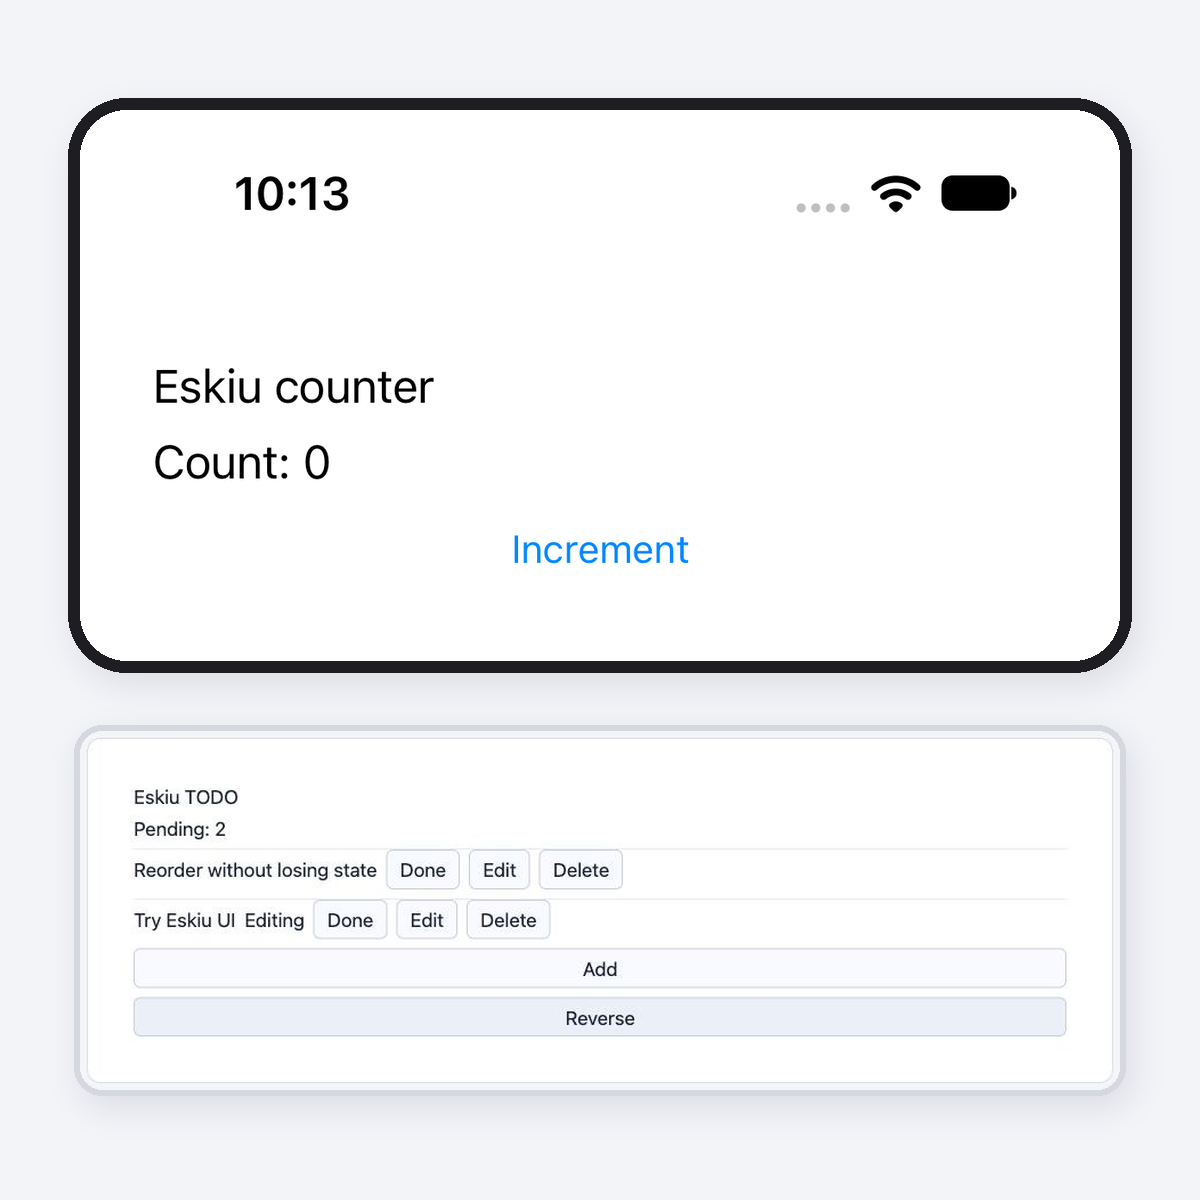
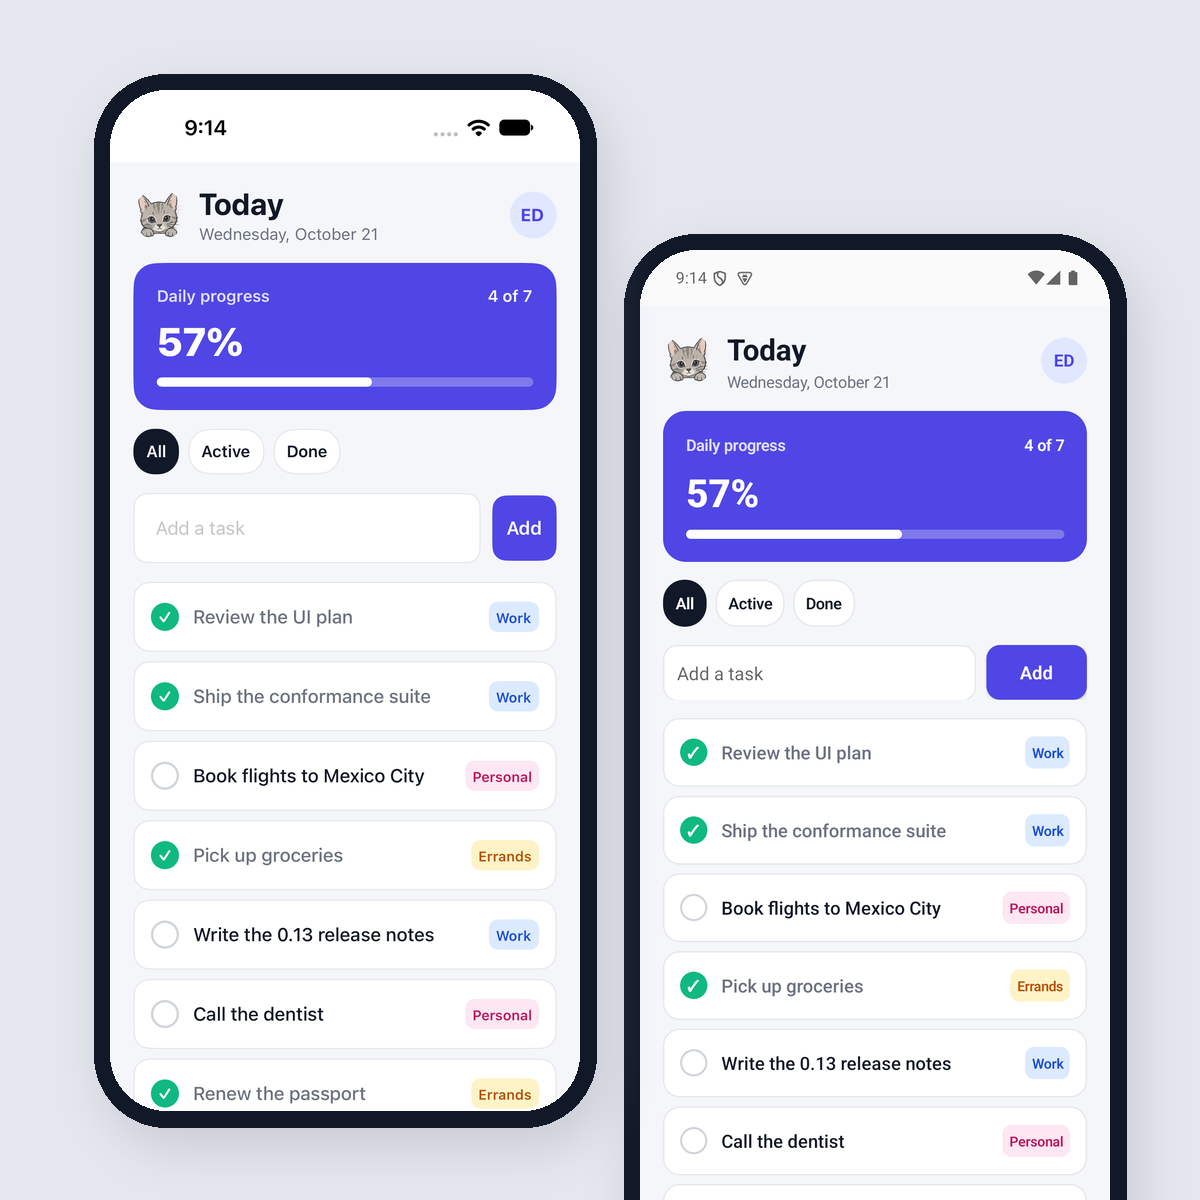
site: ui lab shows the tasks app

diff --git a/site/docs/architecture.html b/site/docs/architecture.html
@@ -573,7 +573,7 @@ std::vector&lt;std::map&lt;std::string, Symbol&gt;&gt; scopes;
 <li>If <code>type</code> is a known concrete struct name: return <code>"struct:" + type</code>.</li>
 <li>Otherwise return as-is (primitive).</li>
 </ol>
-<p>Template function instantiation happens in <code>visit(TemplateCallExpr*)</code> (explicit type args) and in the inferred path of <code>visit(CallExpr*)</code>: type args are bound to type params via <code>substType()</code>, the argument types are validated, and the return type is computed. Each distinct instance (<code>pick&lt;Box&gt;</code>) is then queued (<code>queueInstance</code>) and its body is type-checked once, after the main pass, by <code>checkPendingInstances</code>: the template body is visited through a synthesized <code>FunctionDecl</code> whose parameter and return types are substituted, while <code>normalizeType</code> and <code>getExpressionType</code> map the type parameters to the instance's arguments (<code>instSubs</code>). A type error that only exists for some type arguments (a value passed where the method takes a pointer, an operator the concrete type lacks) is reported at the offending expression with <code>(in instantiation of pick&lt;Box&gt;)</code> appended. Checking an instance can queue more (nested generic calls), so the queue drains to a fixpoint, capped at 64 levels of nesting. The body's AST is shared by every instance, so while one is checked the expression-type table is swapped out and no node is stamped (<code>opFunc</code>, lambda captures, for-in element types keep their instance-independent values); warnings and escape soundness stay per template, not per instance. An inline method of a generic struct (<code>struct Box&lt;T&gt; { T get() {...} }</code>) is registered as <code>Box_int_get(*Box_int self)</code> when <code>Box&lt;int&gt;</code> is instantiated and checked the same way on its first call; codegen emits it on first call too (<code>instantiateGenericMethod</code>). The self-hosted checker mirrors this (<code>sema_queue_inst</code> / <code>sema_check_insts</code>), printing a <code>note: ... (in instantiation of pick&lt;Box&gt;)</code> line after the instance's errors.</p>
+<p>Template function instantiation happens in <code>visit(TemplateCallExpr*)</code> (explicit type args) and in the inferred path of <code>visit(CallExpr*)</code>: type args are bound to type params via <code>substType()</code>, the argument types are validated, and the return type is computed. Each distinct instance (<code>pick&lt;Box&gt;</code>) is then queued (<code>queueInstance</code>) and its body is type-checked once, after the main pass, by <code>checkPendingInstances</code>: the template body is visited through a synthesized <code>FunctionDecl</code> whose parameter and return types are substituted, while <code>normalizeType</code> and <code>getExpressionType</code> map the type parameters to the instance's arguments (<code>instSubs</code>). A type error that only exists for some type arguments (a value passed where the method takes a pointer, an operator the concrete type lacks) is reported at the offending expression with <code>(in instantiation of pick&lt;Box&gt;)</code> appended. Checking an instance can queue more (nested generic calls), so the queue drains to a fixpoint, capped at 64 levels of nesting. The body's AST is shared by every instance, so while one is checked the expression-type table is swapped out and no node is stamped (<code>opFunc</code>, lambda captures, for-in element types keep their instance-independent values); warnings and escape soundness stay per template, not per instance. A lambda's env is the exception: one in a generic body, or one passed to a generic callee, is decided after every instance is checked (<code>finalizeGenericEscapes</code>). Each instance of a free generic records whether each closure parameter escaped there (<code>genericParamEscapes</code>); a parameter forwarded to another generic's non-<code>escaping</code> parameter escapes only if that one does (<code>genericParamForwards</code>, resolved as a fixpoint); a parameter no instance recorded counts as escaping. The lambda gets a stack env only when none of its uses escapes, so <code>sort&lt;T&gt;</code>'s comparator wrapper no longer allocates. The self-hosted checker mirrors it (<code>sema_generic_call_arg</code>, <code>sema_finalize_generic_escapes</code>). An inline method of a generic struct (<code>struct Box&lt;T&gt; { T get() {...} }</code>) is registered as <code>Box_int_get(*Box_int self)</code> when <code>Box&lt;int&gt;</code> is instantiated and checked the same way on its first call; codegen emits it on first call too (<code>instantiateGenericMethod</code>). The self-hosted checker mirrors this (<code>sema_queue_inst</code> / <code>sema_check_insts</code>), printing a <code>note: ... (in instantiation of pick&lt;Box&gt;)</code> line after the instance's errors.</p>
 <h3 id="interface-structural-satisfaction-check">Interface structural satisfaction check</h3>
 <p><code>isValidAssignment(lhs, rhs)</code> includes an interface check: if <code>lhs</code> is a registered interface name and <code>rhs</code> is a pointer to a struct, it calls <code>interfaceMismatch(structName, iface)</code> (<code>typecheck_type.cpp</code>), which requires, for every method in the interface, a function named <code>structName_methodName</code> in <code>functionSignatures</code> whose return type, parameter count and parameter types (after the receiver) match the interface's declaration; a type spelled with the interface's own name stands for the implementing type. It returns an empty string on success or the first mismatch, which becomes part of the diagnostic. A struct passed by value (not a pointer) is rejected with "cannot convert struct 'S' to interface 'I' by value; pass a pointer (&amp;x)". No <code>implements</code> keyword is required. This is purely structural. The same check backs bounded generics (<code>checkConstraints</code>).</p>
 <h3 id="error-format-sourcefilelinecol-message">Error format: <code>sourceFile:line:col: message</code></h3>

diff --git a/site/changelog.html b/site/changelog.html
@@ -190,6 +190,22 @@ details.cl-full[open] { padding-bottom: 8px; }
 <p>The format is based on <a href="https://keepachangelog.com/en/1.1.0/">Keep a Changelog</a>, and the
 project follows the compatibility rules in <a href="docs/stability.html">docs/lang/stability.md</a>.</p>
 <hr>
+<h2 id="unreleased">[Unreleased]</h2>
+<details class="cl-full">
+<summary>Details</summary>
+<h3 id="fixed">Fixed</h3>
+<ul>
+<li>A lambda in a generic function, passed to a parameter that does not escape, gets its
+  env on the stack as it does elsewhere. It got a heap env that was never freed, so each
+  <code>sort&lt;T&gt;</code>, <code>sort_partial&lt;T&gt;</code> and <code>sort_nth&lt;T&gt;</code> call leaked 16 bytes.</li>
+<li>The self-hosted compiler gave a stack env to a lambda passed to a generic function that
+  keeps its closure parameter, which then read a dead stack frame; it now decides as the
+  C++ compiler does. It also rejects forwarding a non-<code>escaping</code> closure parameter to a
+  generic function, as the C++ compiler does.</li>
+<li>The self-hosted compiler captures a variable a lambda names only inside <code>free_closure</code>,
+  <code>thread_create</code> or <code>alloc_with</code>; it emitted invalid IR for such a lambda.</li>
+</ul>
+</details>
 <h2 id="0120-2026-10-20">[0.12.0] - 2026-10-20</h2>
 <details class="cl-full">
 <summary>Details</summary>

diff --git a/site/es/index.html b/site/es/index.html
@@ -284,7 +284,7 @@ Hello, Eskiu!</pre>
         </div>
         <div class="labs-grid">
           <a class="lab" href="https://github.com/eskiu-lang/ui">
-            <img src="../../assets/ui-lab.png" alt="Los mismos componentes de Eskiu como un contador en UIKit en iOS y una lista de pendientes en el navegador" width="1200" height="1200" loading="lazy" />
+            <img src="../../assets/ui-lab.png" alt="La misma app de tareas en Eskiu en iOS y Android: una tarjeta de progreso, filtros y una lista de tareas" width="1200" height="1200" loading="lazy" />
             <div class="lab-txt">
               <h3>Una UI para cada pantalla</h3>
               <p>Un framework de UI reactivo en Eskiu: los mismos componentes dibujan UIKit en iOS, vistas nativas en Android y el DOM con WebAssembly. Un prototipo de lo que 0.13 está construyendo.</p>

diff --git a/site/index.html b/site/index.html
@@ -284,7 +284,7 @@ Hello, Eskiu!</pre>
         </div>
         <div class="labs-grid">
           <a class="lab" href="https://github.com/eskiu-lang/ui">
-            <img src="../assets/ui-lab.png" alt="The same Eskiu components as a UIKit counter on iOS and a TODO list in the browser" width="1200" height="1200" loading="lazy" />
+            <img src="../assets/ui-lab.png" alt="The same Eskiu task app on iOS and Android: a progress card, filters and a list of tasks" width="1200" height="1200" loading="lazy" />
             <div class="lab-txt">
               <h3>One UI for every screen</h3>
               <p>A reactive UI framework in Eskiu: the same components draw UIKit on iOS, native views on Android and the DOM through WebAssembly. A prototype of what 0.13 is building.</p>
